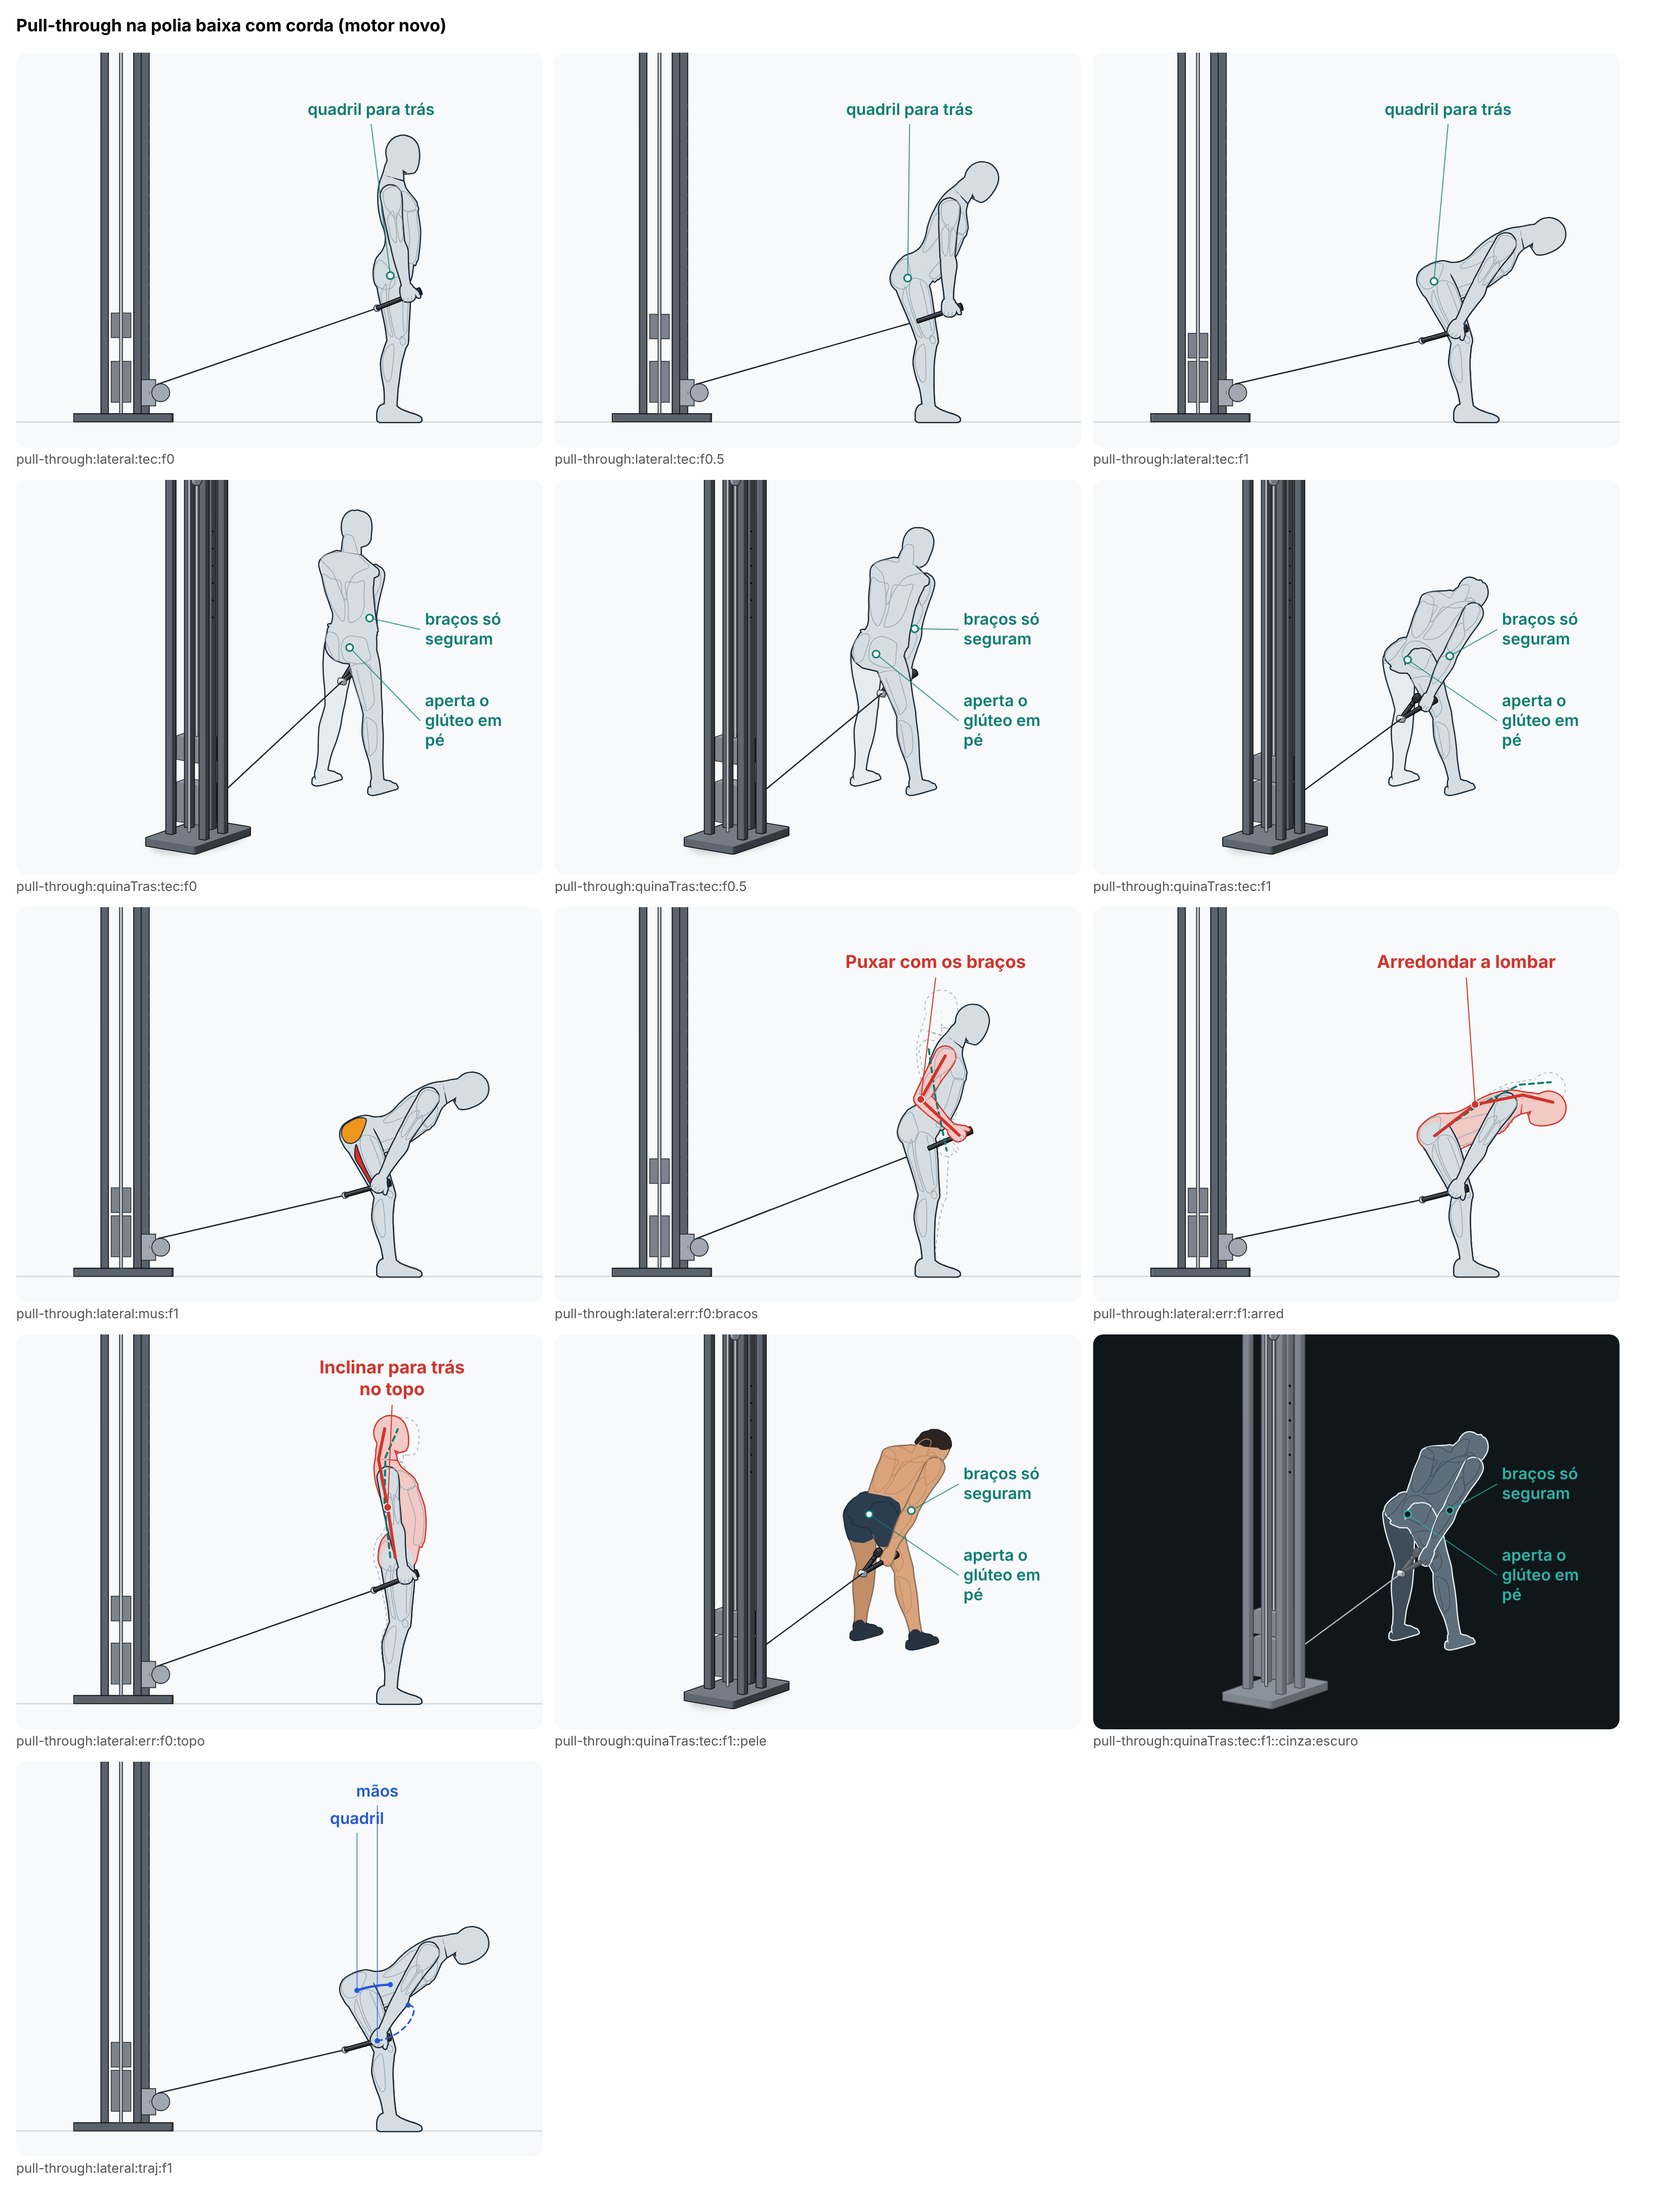
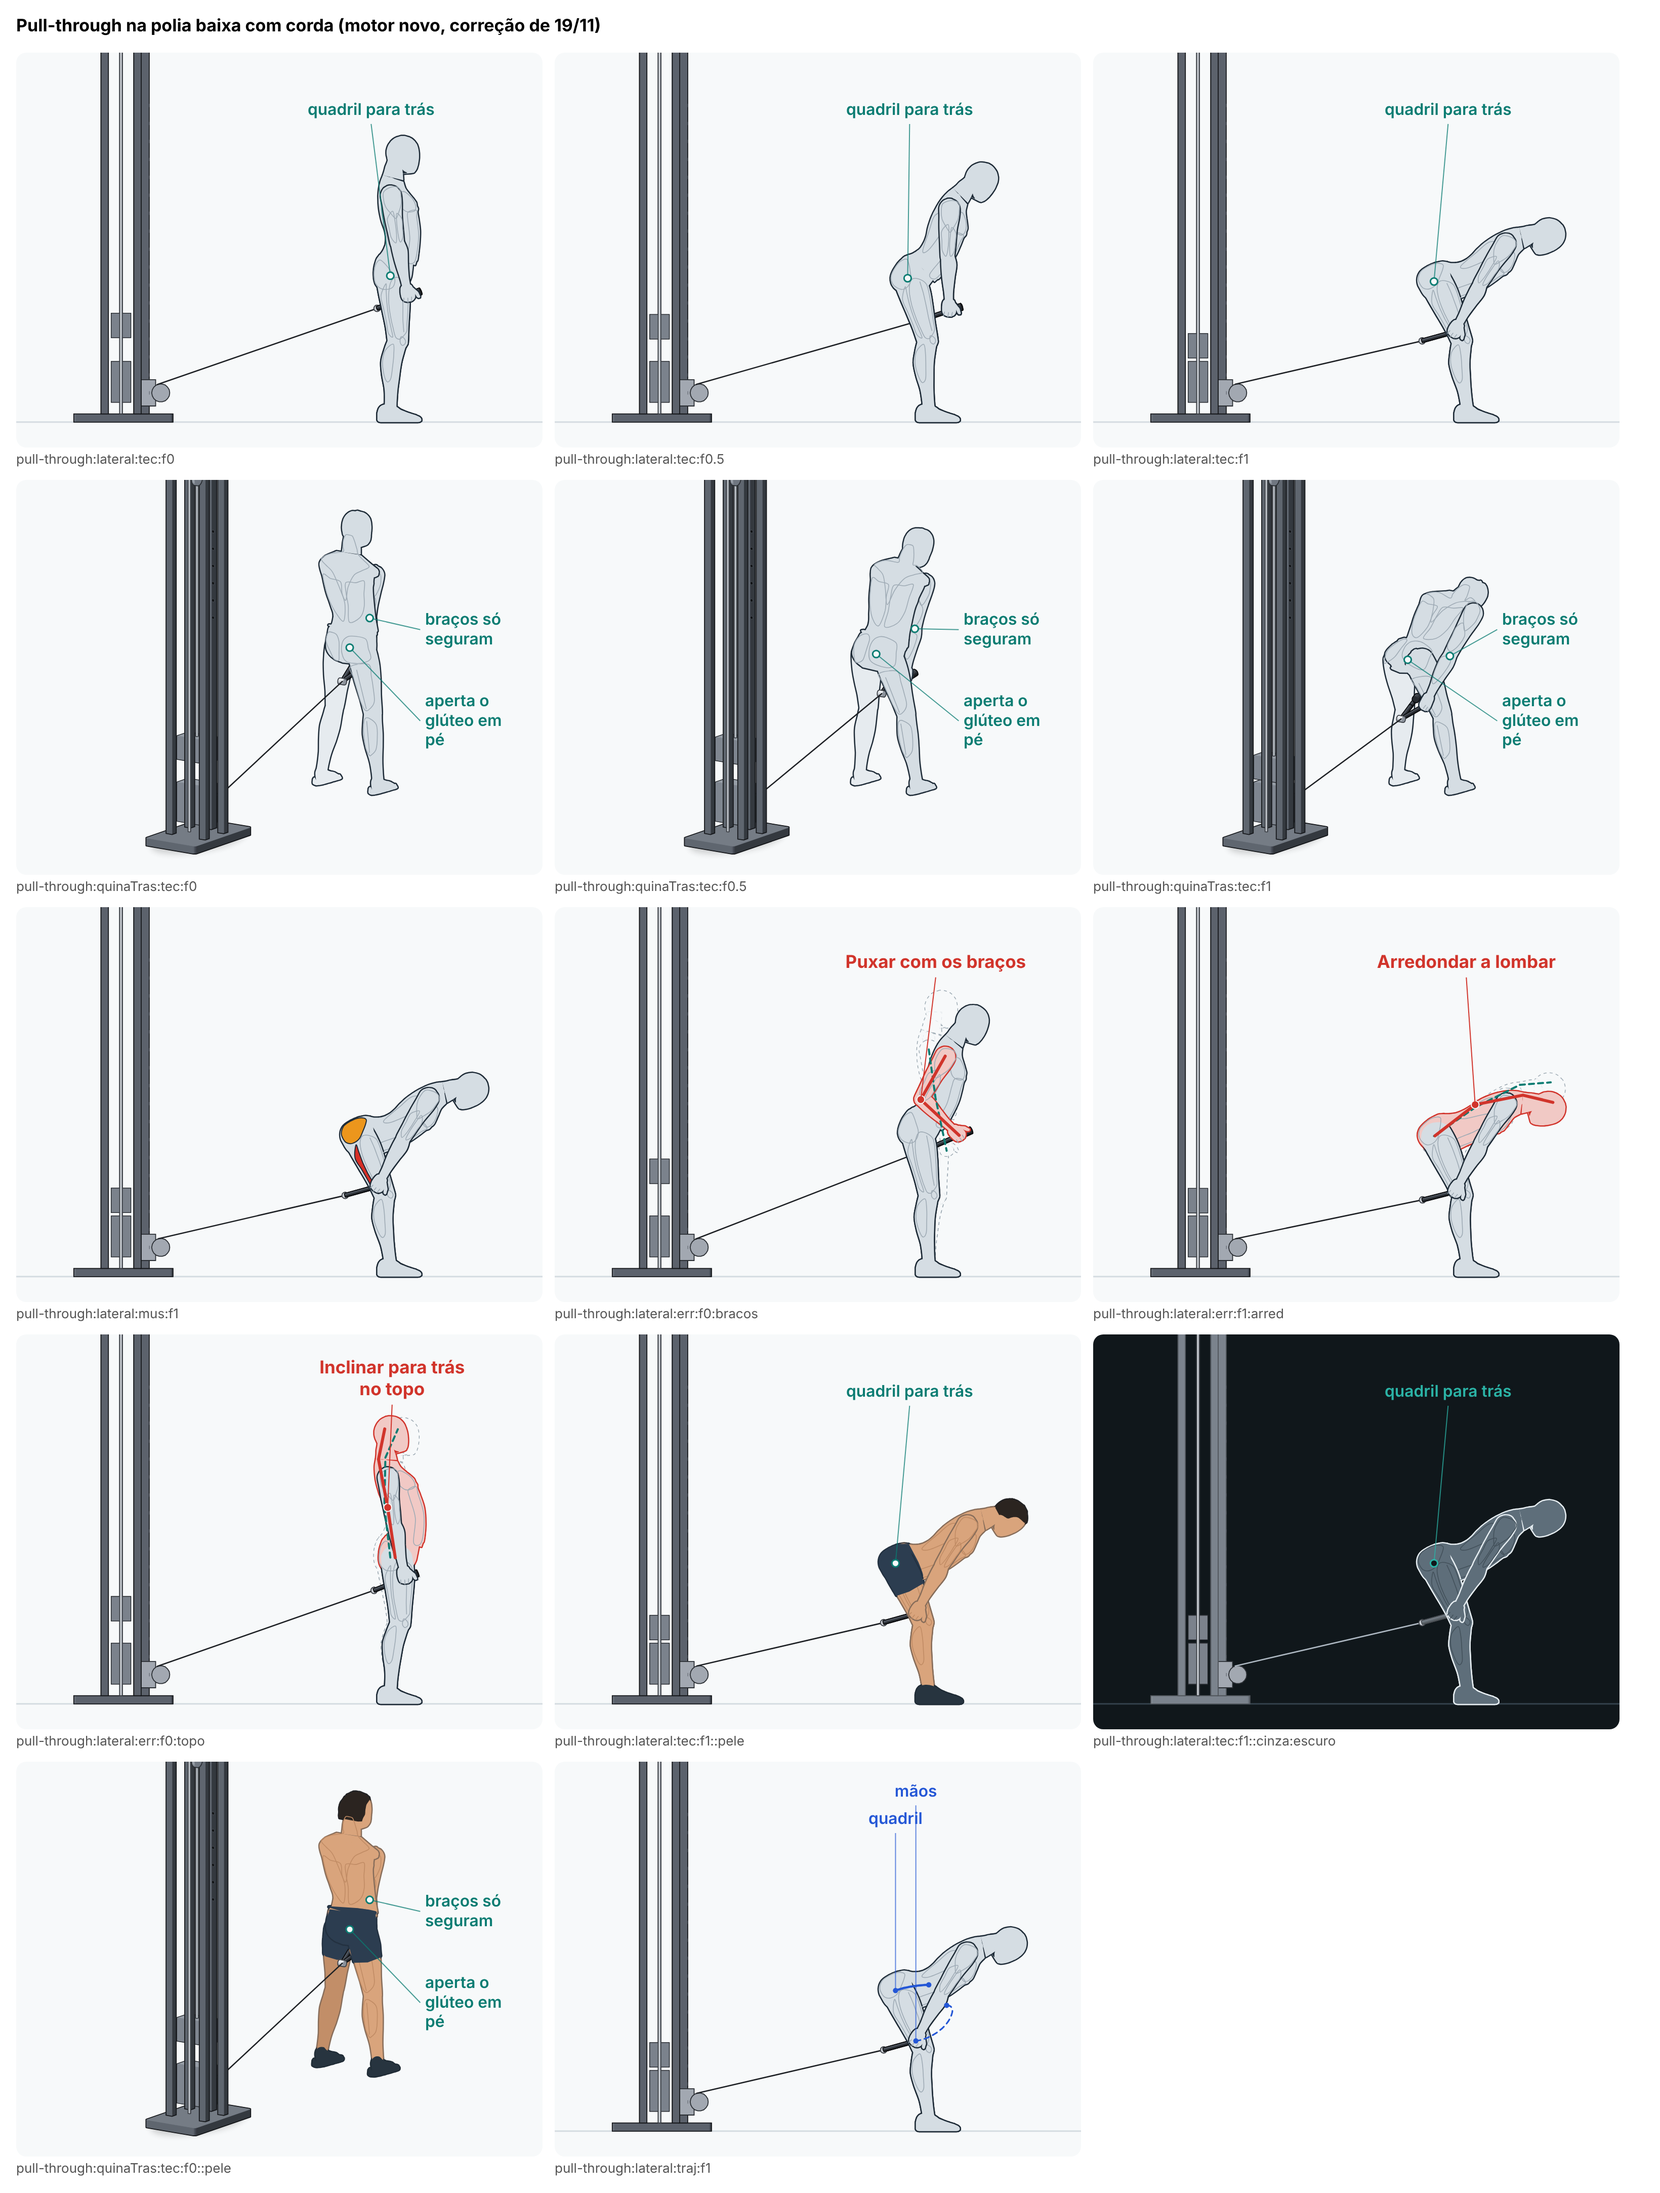
Corrige a corda por cima da coxa de perto no pull-through
De lado e de três quartos por trás, cada ramo da corda saía à frente do
corpo na pintura, por cima da coxa de perto, embora passe entre as
pernas. O corpo e o braço de perto vêm 10 cm (de lado) e 12 cm (de três
quartos por trás) para a frente da corda. Regra nova
pull-through-corda-pintada-no-lugar.

Claude-Session: https://claude.ai/code/session_01YRzts8DBGbsca9onebcMt1

diff --git a/src/engine/novo/regras/uma-torre.ts b/src/engine/novo/regras/uma-torre.ts
@@ -6,9 +6,12 @@ import { pontosDoBoneco } from '../boneco';
 import { f1, faixa } from '../conferir-util';
 import type { Regra } from '../conferir-util';
 import { LADOS } from '../esqueleto';
+import { pullThrough } from '../exercicios/pull-through';
 import { obj } from '../tabelas';
-import { add, dist, dot, mul, paraRef, sub } from '../vec';
+import { add, dist, dot, mul, norm, paraRef, sub } from '../vec';
 import type { V3 } from '../vec';
+import { regraDePintura } from './ordem-de-pintura';
+import type { ParteDaPeca } from './ordem-de-pintura';
 
 const rad = Math.PI / 180;
 /** Distância de um ponto a um segmento. */
@@ -80,6 +83,37 @@ export const REGRAS_UMA_TORRE: Record<string, Regra> = {
     return { medido: `a roldana a ${f1(r[1])} cm do chão (o ponto mais baixo da coluna: ${f1(obj('torre', 'poliaMin'))} cm), ${f1(atras)} cm atrás do meio da pelve e ${f1(calc)} cm atrás dos calcanhares`, ok: Math.abs(r[1] - obj('torre', 'poliaMin')) <= 0.5 && atras >= 50 && atras <= 90 && calc >= 30 };
   },
   // ----- pull-through -----
+  // A corda (os dois ramos, as pontas de borracha e a bucha, na ordem em que a peça os desenha) e o cabo, contra o corpo,
+  // nos dois lados, em cada vista do guia (acréscimo de 19/11, auditoria das fases A e B): de lado, no começo e no meio,
+  // a corda, que passa entre as pernas, era pintada por cima da coxa de perto. As mãos fecham nos ramos e não contam.
+  'pull-through-corda-pintada-no-lugar': regraDePintura({
+    exercicio: () => pullThrough,
+    nome: 'a corda',
+    fora: ['mao', 'polegar'],
+    peca: (q) => {
+      const corda = q.pecas?.find((p) => p.t === 'propria' && p.nome === 'corda-triceps'),
+        cabo = q.pecas?.find((p) => p.t === 'cabo');
+      const bucha = q.marcas.bucha;
+      if (!corda || !bucha) return [];
+      const r = obj('cordaTriceps', 'diam') / 2,
+        rp = obj('cordaTriceps', 'pontaDiam') / 2,
+        meiaMao = q.esq.corpo.m('mao.largura') / 2;
+      // cada ramo, como em montarCorda (../pecas-de-cena/corda-triceps.ts): reto da pegada à bucha
+      const partes: ParteDaPeca[] = LADOS.flatMap((k, i) => {
+        const p = q.esq.lado[k].pegada,
+          u = norm(sub(bucha, p));
+        const entra = add(p, mul(u, -meiaMao)),
+          sai = add(p, mul(u, meiaMao));
+        return [
+          { eixo: [entra, sai], raio: r, itens: [3 * i] },
+          { eixo: [sai, bucha], raio: r, itens: [3 * i + 1] },
+          { eixo: [entra, add(entra, mul(u, -obj('cordaTriceps', 'pontaComp')))], raio: rp, itens: [3 * i + 2] },
+        ];
+      });
+      partes.push({ eixo: [bucha], raio: obj('cordaTriceps', 'anelDiam') / 2, itens: [6] });
+      return [{ peca: corda, partes }, ...(cabo && cabo.t === 'cabo' ? [{ peca: cabo, partes: [{ eixo: [cabo.a, cabo.b], raio: Math.max(obj('torre', 'caboDiam'), 0.9) / 2 }] }] : [])];
+    },
+  }),
   'pull-through-bracos-so-seguram': (q) => {
     const [a, b] = faixa(q.flatMap((x) => LADOS.map((k) => x.esq.lado[k].ang.cotovelo)));
     return { medido: `o cotovelo fica de ${f1(a)}° a ${f1(b)}° o ciclo todo`, ok: b <= 10 };

diff --git a/src/engine/novo/exercicios/pull-through.ts b/src/engine/novo/exercicios/pull-through.ts
@@ -124,8 +124,17 @@ function quadro(corpo: Corpo, u: number, erro?: string): Quadro {
   const col = colunasECabos(c.cabos, [corda.bucha], c.repouso, f('pilha.folga'), false, CORTADA_EM);
   const pecas: Peca[] = [...col.pecas!.filter((p) => p.t === 'torre'), pc.peca, ...col.pecas!.filter((p) => p.t !== 'torre')];
   const marcas: Record<string, V3> = { ...col.marcas, bucha: corda.bucha, saiR: corda.ramos[0]!.sai, saiL: corda.ramos[1]!.sai, saida: col.marcas['cabo.saida']! };
-  return { esq: e, prims: [chao(-70, 70, c.cabos[0]!.torre.base[2] - 50, 90), ...pc.prims, ...col.prims], pecas, fios: col.fios, cargas: [], marcas, vies: { maoR: 1, maoL: 1 } };
+  return { esq: e, prims: [chao(-70, 70, c.cabos[0]!.torre.base[2] - 50, 90), ...pc.prims, ...col.prims], pecas, fios: col.fios, cargas: [], marcas, vies: { maoR: 1, maoL: 1 }, viesNaVista: VIES_NA_VISTA };
 }
+/**
+ * A corda passa entre as pernas, atrás da coxa de perto. De lado (e de três quartos por trás, em pé), cada ramo é pintado
+ * pela profundidade do meio dele e saía à frente do item do corpo (o tronco com as pernas de perto, pintado pela média
+ * deles): a corda aparecia por cima da coxa de perto. O corpo vem para a frente da corda na pintura, e o braço de perto
+ * vem junto, para continuar por cima do corpo, como antes; a regra pull-through-corda-pintada-no-lugar mede, nos dois
+ * lados e nas duas vistas. De lado, a ponta de borracha do ramo direito chegava a 6,1 cm à frente do corpo (10 cm deixa
+ * 3,9 de folga); de três quartos por trás, em pé, 19,1 cm à frente dele, que fica em 11,2 (12 cm deixa 4,1).
+ */
+const VIES_NA_VISTA = { lateral: { corpo: 10, bracoR: 10 }, quinaTras: { corpo: 12, bracoR: 12 } };
 
 export const pullThrough: Exercicio = {
   ficha: F,

diff --git a/docs/revisoes/animacao-nova/lote-A5/pull-through.md b/docs/revisoes/animacao-nova/lote-A5/pull-through.md
@@ -57,3 +57,15 @@ Não há correção registrada para este exercício. Do stiff: a coluna longa (p
 - **A cena é larga** (a coluna 1,4 m atrás): de lado, o rótulo "quadril para trás" fica acima do corpo e o fio desce por cima do tronco; tirei o segundo rótulo dessa vista ("braços só seguram" foi para a de três quartos) para os fios não se cruzarem. O corpo fica menor que no stiff aprovado, que não tem coluna.
 - **No modo Trajetória**, os nomes "mãos" e "quadril" ficam acima do corpo, com os fios por cima dele (mesmo motivo).
 - **A força do cabo não entra no equilíbrio**, como em todas as animações na polia: de verdade, o cabo puxa as mãos para trás e a pessoa se inclina um pouco mais à frente.
+
+## Correção de 19/11 (auditoria)
+
+A auditoria das fases A e B (M10) achou que, de lado, no começo e no meio, a corda, que passa entre as pernas, era pintada por cima da coxa de perto (e, pequeno, de três quartos por trás, por cima da pelve). **Causa:** cada ramo da corda é um item, pintado pela profundidade do meio dele, e saía à frente do item do corpo (o tronco com as pernas de perto, pintado pela média deles).
+
+**O que mudou.** Só no exercício: `viesNaVista` traz o corpo e o braço de perto (juntos, para o braço continuar por cima do corpo, como antes) 10 cm para a frente da corda de lado e 12 cm de três quartos por trás. A regra nova `pull-through-corda-pintada-no-lugar` mede os dois ramos, as pontas de borracha, a bucha e o cabo contra cada parte do corpo, dos dois lados, nas duas vistas (as mãos, nos ramos, não contam).
+
+**Antes → depois** (pior quadro, cm de folga de pintura): de lado, a perna direita, que esconde a corda, −6,1 → 3,9; de três quartos por trás, −7,8 → 4,2; a perna esquerda (atrás da corda) 5,9 e 18,3, sem mudança; o tronco 26,3 → 38,3. A regra falha no estado antigo e passa no novo; a conferência automática dá 0 falha e os mesmos 2 avisos.
+
+Como a ordem de pintura é medida (a regra nova, com o núcleo em `src/engine/novo/regras/ordem-de-pintura.ts`): em cada vista do guia (as do exercício e as dos erros), a cada 3 quadros do movimento certo e em cada erro no começo, no meio e no fim, um raio sai de cada ponto do eixo da peça até quem olha e de cada ponto da pele virada para quem olha (a 85% do raio) até quem olha; se ele atravessa o corpo (os dois lados, cada grupo à parte), aquela parte do corpo tem de ser pintada depois do item que pinta a peça; se atravessa a peça, antes. A folga é a diferença de profundidade de pintura (cm; negativa = ordem errada). Contam só os cruzamentos de 4 pontos ou mais; a pele que fica dentro de outra parte do corpo ou dentro da própria peça não conta; quando a mesma parte esconde e é escondida pela mesma peça, vale o lado com mais pontos.
+
+**O que ainda não ficou bom.** Os antebraços continuam entrando na pelve e na cintura (pequeno da auditoria): por isso o raio diz que a coxa de perto "esconde" o braço, o que só é verdade porque o braço está dentro dela. Não mexi na pose.
